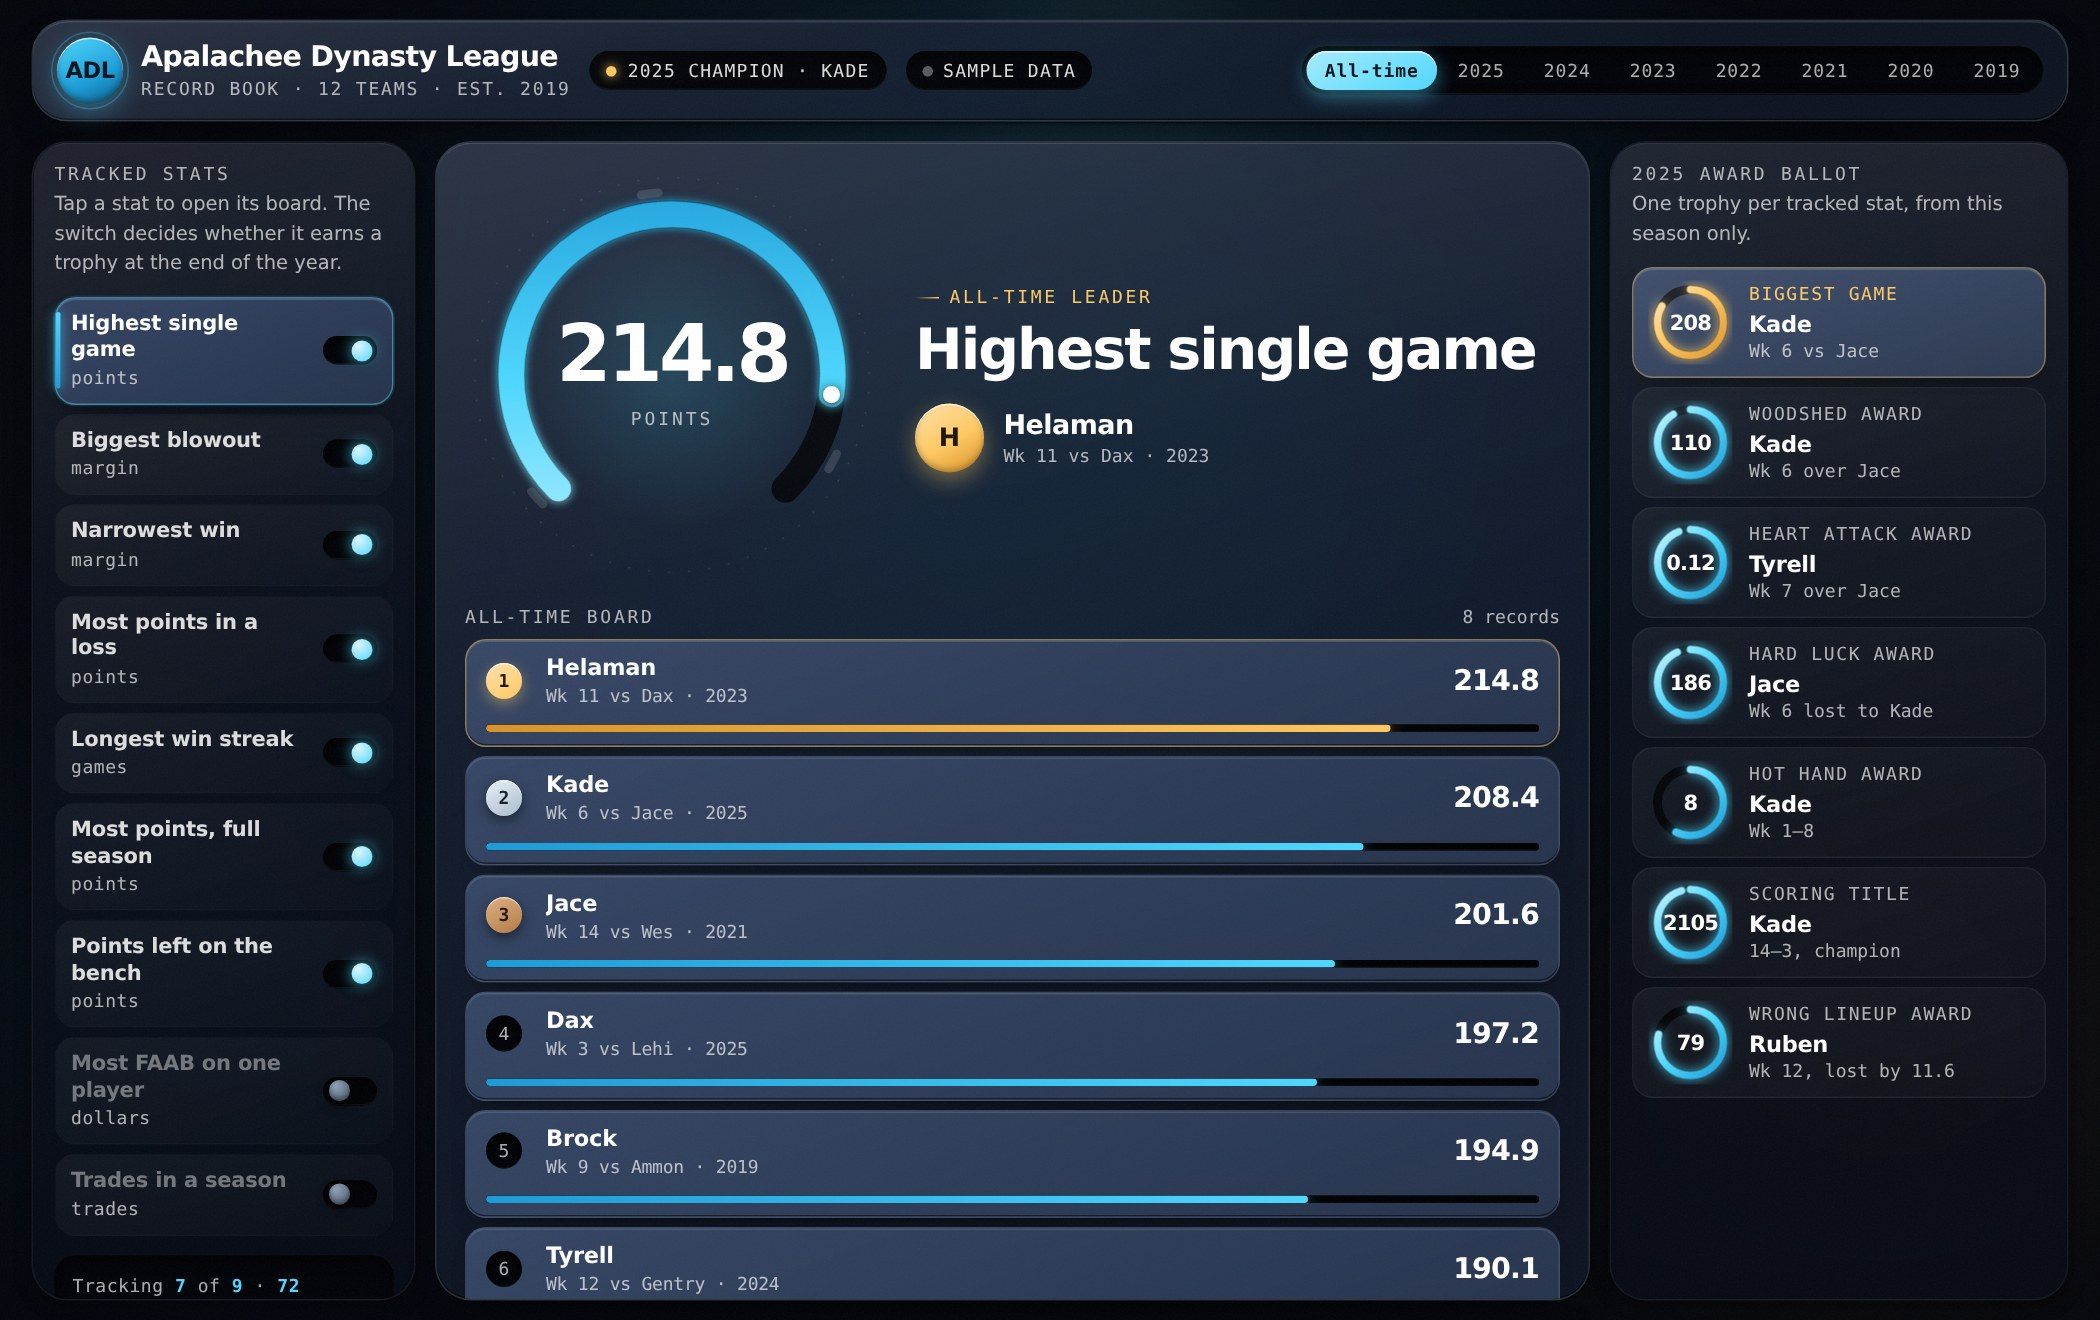
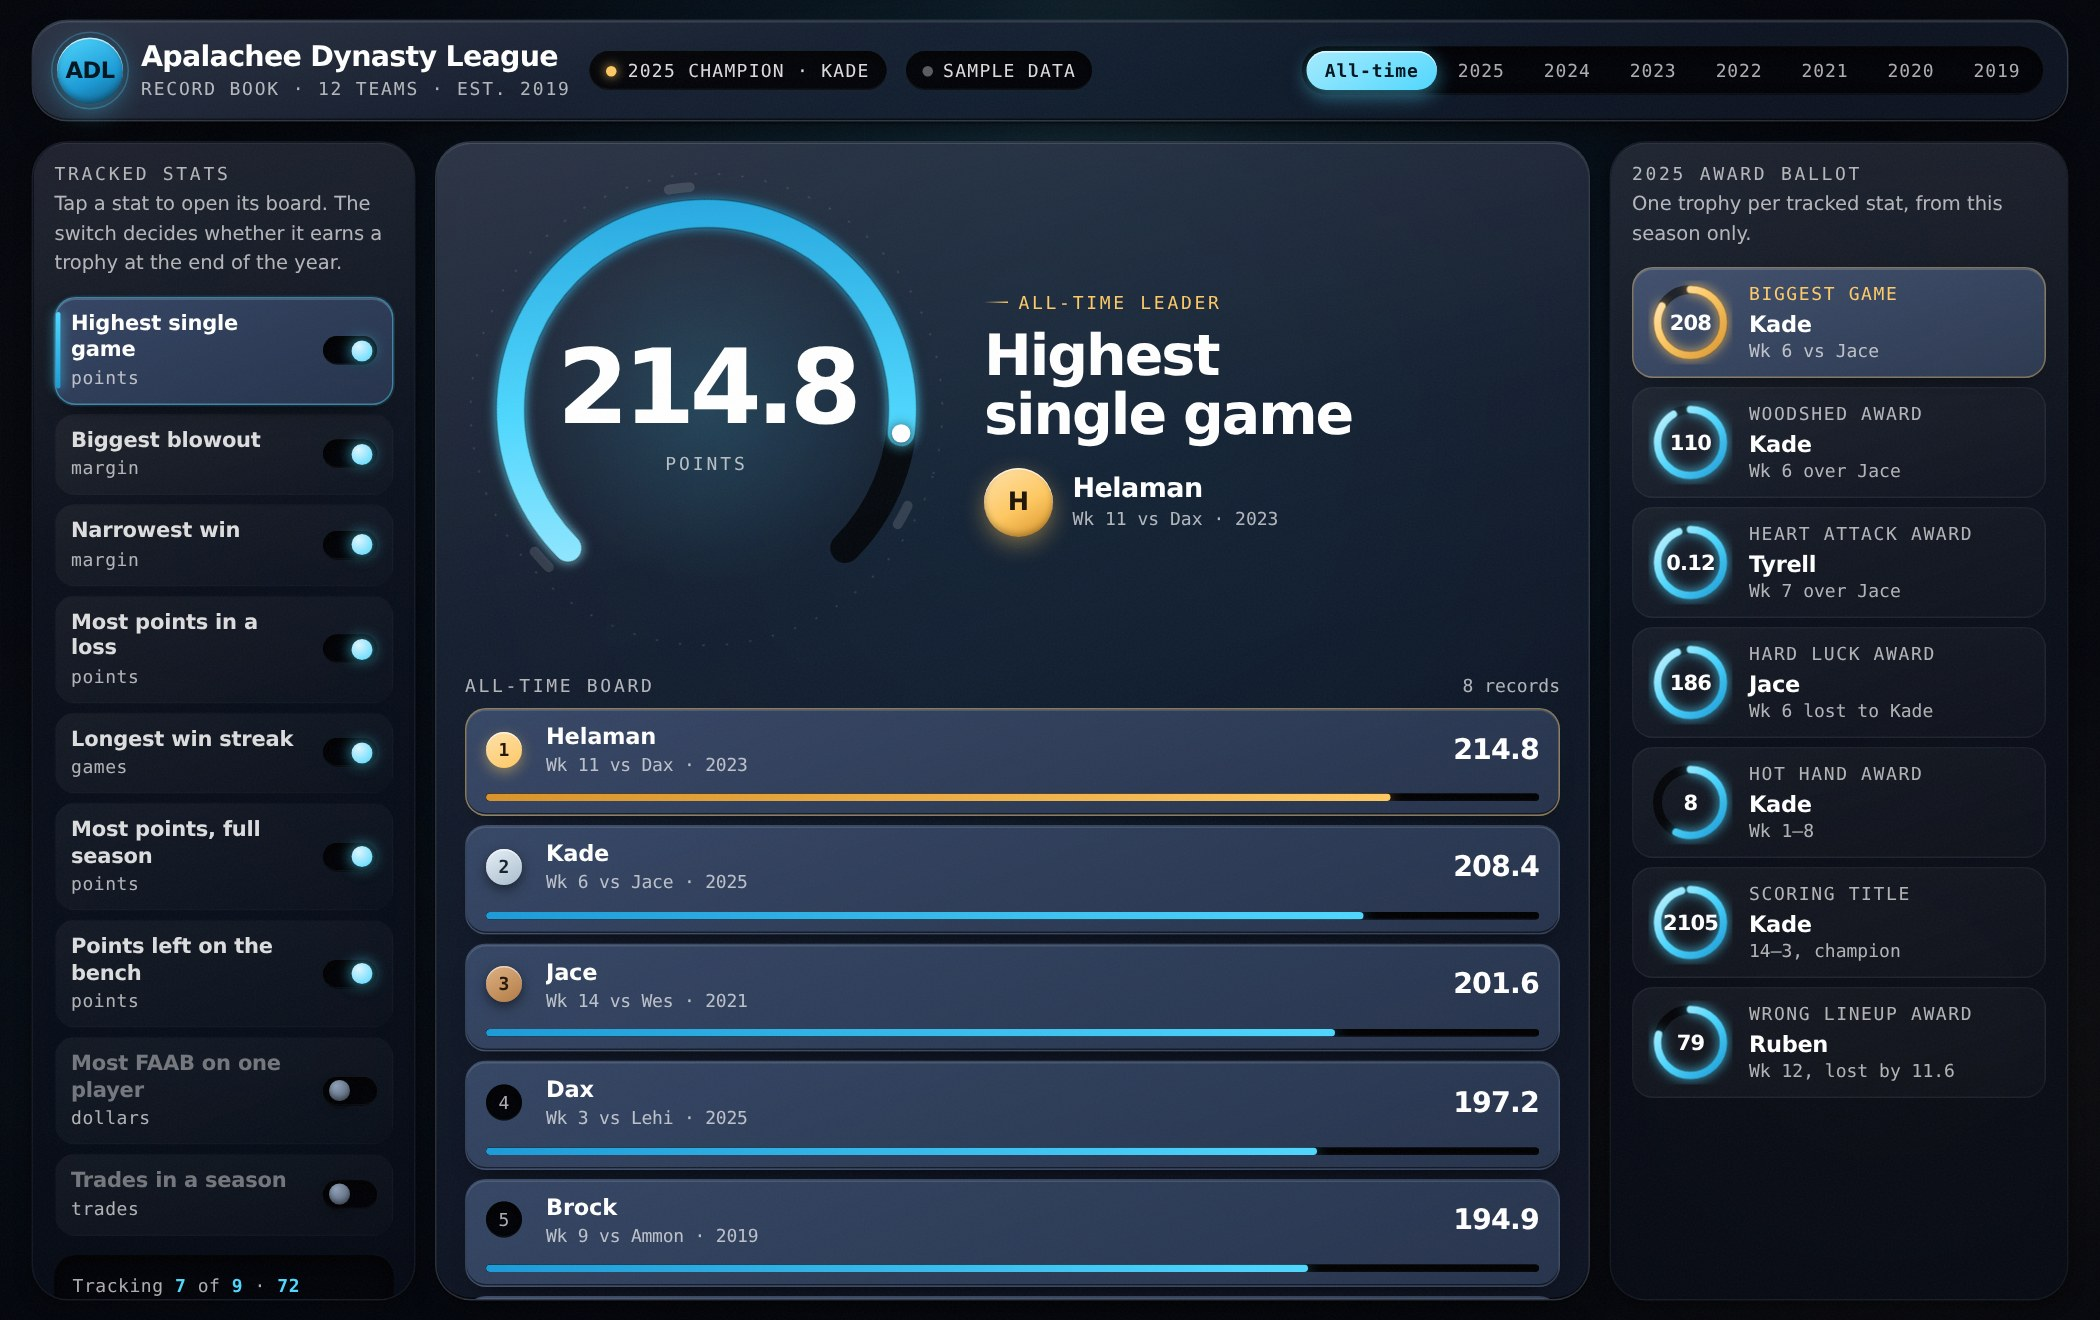
Enlarge the anchor gauge to restore scale contrast
The directive asks for at least 8x between body text and the anchor numeral,
and the gauge was sized so the numeral landed near 4x. The gauge is now 322px
with a thinner ring at a larger radius, which frees the interior: the numeral
runs 51 to 88px depending on digit count, against 15px body. Clearance from
the ring's inner edge is re-measured and holds at 10 to 17px across the widest
values in the set.

Claude-Session: https://claude.ai/code/session_01TiNMvjTDK6Q7mnYRtzpeH8

Changed region(s): [[0.2167, 0.4659, 0.7429, 0.9939], [0.2167, 0.1242, 0.7429, 0.4348]]

diff --git a/samples/league-record-book-standalone.html b/samples/league-record-book-standalone.html
@@ -163,17 +163,17 @@ button{font:inherit}
 
 /* ══ main ══ */
 .main{padding:17px 19px;display:flex;flex-direction:column;gap:16px}
-.anchor{display:grid;grid-template-columns:minmax(0,276px) minmax(0,1fr);gap:24px;align-items:center}
+.anchor{display:grid;grid-template-columns:minmax(0,322px) minmax(0,1fr);gap:24px;align-items:center}
 @media(max-width:880px){.anchor{grid-template-columns:minmax(0,1fr);gap:10px}}
-.gwrap{position:relative;width:100%;max-width:276px;margin-inline:auto;aspect-ratio:1}
+.gwrap{position:relative;width:100%;max-width:322px;margin-inline:auto;aspect-ratio:1}
 .gwrap::before{content:"";position:absolute;inset:11%;border-radius:50%;
   background:radial-gradient(circle,rgba(79,216,255,.16),transparent 66%)}
 .gwrap svg{position:relative;width:100%;height:auto;display:block;overflow:visible}
 .spin{transform-origin:170px 170px;animation:sp 56s linear infinite}
 @keyframes sp{to{transform:rotate(360deg)}}
-.gcenter{position:absolute;inset:20%;display:grid;place-content:center;text-align:center;pointer-events:none}
-.gcenter b{display:block;font-family:var(--disp);font-weight:900;line-height:.88;
-  letter-spacing:-.05em;font-variant-numeric:tabular-nums;color:#fff;font-size:62px}
+.gcenter{position:absolute;inset:17%;display:grid;place-content:center;text-align:center;pointer-events:none}
+.gcenter b{display:block;font-family:var(--disp);font-weight:900;line-height:.86;
+  letter-spacing:-.055em;font-variant-numeric:tabular-nums;color:#fff;font-size:96px}
 .gcenter em{display:block;font-family:var(--mono);font-style:normal;font-size:12px;letter-spacing:.16em;
   text-transform:uppercase;color:var(--ink-3);margin-top:12px}
 .akicker{display:inline-flex;align-items:center;gap:7px;font-family:var(--mono);font-size:12px;
@@ -281,7 +281,7 @@ dialog::backdrop{background:rgba(2,4,10,.78)}
     background:linear-gradient(0deg,rgba(10,14,24,.98),rgba(10,14,24,.84))}
   .rail .closebar button{width:100%}
   .main{padding:15px}
-  .gwrap{max-width:226px}
+  .gwrap{max-width:252px}
 }
 @media (prefers-reduced-motion:reduce){.panel,.a1,.a2,.spin,.row,.stat,.award{animation:none!important;transition:none!important}}
 </style>
@@ -335,17 +335,17 @@ dialog::backdrop{background:rgba(2,4,10,.78)}
               <feMerge><feMergeNode in="b"/><feMergeNode in="SourceGraphic"/></feMerge>
             </filter>
           </defs>
-          <circle class="spin" cx="170" cy="170" r="162" fill="none" stroke="rgba(255,255,255,.16)"
+          <circle class="spin" cx="170" cy="170" r="166" fill="none" stroke="rgba(255,255,255,.16)"
                   stroke-width="1" stroke-dasharray="1.5 15"/>
-          <circle cx="170" cy="170" r="150" fill="none" stroke="rgba(255,255,255,.13)"
+          <circle cx="170" cy="170" r="157" fill="none" stroke="rgba(255,255,255,.13)"
                   stroke-width="7" stroke-dasharray="1.5 33.3" transform="rotate(135 170 170)"
                   stroke-linecap="round" pathLength="100"/>
-          <circle cx="170" cy="170" r="132" fill="none" stroke="rgba(0,0,0,.72)" stroke-width="23"
-                  stroke-linecap="round" stroke-dasharray="622 830" transform="rotate(135 170 170)"/>
-          <circle id="garc" cx="170" cy="170" r="132" fill="none" stroke="url(#gg)" stroke-width="21"
-                  stroke-linecap="round" stroke-dasharray="0 830" transform="rotate(135 170 170)"
+          <circle cx="170" cy="170" r="138" fill="none" stroke="rgba(0,0,0,.72)" stroke-width="21"
+                  stroke-linecap="round" stroke-dasharray="650 867" transform="rotate(135 170 170)"/>
+          <circle id="garc" cx="170" cy="170" r="138" fill="none" stroke="url(#gg)" stroke-width="19"
+                  stroke-linecap="round" stroke-dasharray="0 867" transform="rotate(135 170 170)"
                   filter="url(#gglow)" style="transition:stroke-dasharray .55s cubic-bezier(.2,.8,.2,1)"/>
-          <circle id="gcap" cx="170" cy="38" r="7" fill="#fff"
+          <circle id="gcap" cx="170" cy="32" r="6.5" fill="#fff"
                   style="filter:drop-shadow(0 2px 5px rgba(0,0,0,.9));transition:transform .55s cubic-bezier(.2,.8,.2,1)"/>
         </svg>
         <div class="gcenter"><b id="gval">—</b><em id="gunit">points</em></div>
@@ -462,14 +462,14 @@ function fitNumber(el){
   const box=el.parentElement.getBoundingClientRect().width;
   if(!box)return;
   const avail=box*0.94;
-  el.style.fontSize='64px';
+  el.style.fontSize='96px';
   const w=el.scrollWidth;
-  if(w>avail)el.style.fontSize=Math.max(26,Math.floor(64*avail/w))+'px';
+  if(w>avail)el.style.fontSize=Math.max(30,Math.floor(96*avail/w))+'px';
 }
 function setCap(p){
   const a=(135+270*p)*Math.PI/180;
-  const x=170+132*Math.cos(a), y=170+132*Math.sin(a);
-  $('gcap').setAttribute('transform',`translate(${(x-170).toFixed(1)} ${(y-38).toFixed(1)})`);
+  const x=170+138*Math.cos(a), y=170+138*Math.sin(a);
+  $('gcap').setAttribute('transform',`translate(${(x-170).toFixed(1)} ${(y-32).toFixed(1)})`);
 }
 function renderBoard(){
   const s=STATS.find(x=>x.id===sel), list=entries(s,season);
@@ -481,14 +481,14 @@ function renderBoard(){
   if(list.length){
     const top=list[0],txt=fmt(s,top[1]),p=pct(s,top[1]);
     const g=$('gval');g.textContent=txt;fitNumber(g);
-    $('garc').setAttribute('stroke-dasharray',(622*p).toFixed(0)+' 830');
+    $('garc').setAttribute('stroke-dasharray',(650*p).toFixed(0)+' 867');
     $('gcap').style.opacity='1';setCap(p);
     $('avi').textContent=top[0][0];
     $('hname').textContent=top[0];
     $('hctx').textContent=top[2]+' · '+top[3];
   }else{
     $('gval').textContent='—';fitNumber($('gval'));
-    $('garc').setAttribute('stroke-dasharray','0 830');$('gcap').style.opacity='0';
+    $('garc').setAttribute('stroke-dasharray','0 867');$('gcap').style.opacity='0';
     $('avi').textContent='–';$('hname').textContent='No record yet';$('hctx').textContent=season+' season';
   }
   $('rows').innerHTML=list.length?list.map((r,i)=>rowHTML(s,r,i)).join('')

diff --git a/samples/league-record-book.html b/samples/league-record-book.html
@@ -157,17 +157,17 @@ button{font:inherit}
 
 /* ══ main ══ */
 .main{padding:17px 19px;display:flex;flex-direction:column;gap:16px}
-.anchor{display:grid;grid-template-columns:minmax(0,276px) minmax(0,1fr);gap:24px;align-items:center}
+.anchor{display:grid;grid-template-columns:minmax(0,322px) minmax(0,1fr);gap:24px;align-items:center}
 @media(max-width:880px){.anchor{grid-template-columns:minmax(0,1fr);gap:10px}}
-.gwrap{position:relative;width:100%;max-width:276px;margin-inline:auto;aspect-ratio:1}
+.gwrap{position:relative;width:100%;max-width:322px;margin-inline:auto;aspect-ratio:1}
 .gwrap::before{content:"";position:absolute;inset:11%;border-radius:50%;
   background:radial-gradient(circle,rgba(79,216,255,.16),transparent 66%)}
 .gwrap svg{position:relative;width:100%;height:auto;display:block;overflow:visible}
 .spin{transform-origin:170px 170px;animation:sp 56s linear infinite}
 @keyframes sp{to{transform:rotate(360deg)}}
-.gcenter{position:absolute;inset:20%;display:grid;place-content:center;text-align:center;pointer-events:none}
-.gcenter b{display:block;font-family:var(--disp);font-weight:900;line-height:.88;
-  letter-spacing:-.05em;font-variant-numeric:tabular-nums;color:#fff;font-size:62px}
+.gcenter{position:absolute;inset:17%;display:grid;place-content:center;text-align:center;pointer-events:none}
+.gcenter b{display:block;font-family:var(--disp);font-weight:900;line-height:.86;
+  letter-spacing:-.055em;font-variant-numeric:tabular-nums;color:#fff;font-size:96px}
 .gcenter em{display:block;font-family:var(--mono);font-style:normal;font-size:12px;letter-spacing:.16em;
   text-transform:uppercase;color:var(--ink-3);margin-top:12px}
 .akicker{display:inline-flex;align-items:center;gap:7px;font-family:var(--mono);font-size:12px;
@@ -275,7 +275,7 @@ dialog::backdrop{background:rgba(2,4,10,.78)}
     background:linear-gradient(0deg,rgba(10,14,24,.98),rgba(10,14,24,.84))}
   .rail .closebar button{width:100%}
   .main{padding:15px}
-  .gwrap{max-width:226px}
+  .gwrap{max-width:252px}
 }
 @media (prefers-reduced-motion:reduce){.panel,.a1,.a2,.spin,.row,.stat,.award{animation:none!important;transition:none!important}}
 </style>
@@ -326,17 +326,17 @@ dialog::backdrop{background:rgba(2,4,10,.78)}
               <feMerge><feMergeNode in="b"/><feMergeNode in="SourceGraphic"/></feMerge>
             </filter>
           </defs>
-          <circle class="spin" cx="170" cy="170" r="162" fill="none" stroke="rgba(255,255,255,.16)"
+          <circle class="spin" cx="170" cy="170" r="166" fill="none" stroke="rgba(255,255,255,.16)"
                   stroke-width="1" stroke-dasharray="1.5 15"/>
-          <circle cx="170" cy="170" r="150" fill="none" stroke="rgba(255,255,255,.13)"
+          <circle cx="170" cy="170" r="157" fill="none" stroke="rgba(255,255,255,.13)"
                   stroke-width="7" stroke-dasharray="1.5 33.3" transform="rotate(135 170 170)"
                   stroke-linecap="round" pathLength="100"/>
-          <circle cx="170" cy="170" r="132" fill="none" stroke="rgba(0,0,0,.72)" stroke-width="23"
-                  stroke-linecap="round" stroke-dasharray="622 830" transform="rotate(135 170 170)"/>
-          <circle id="garc" cx="170" cy="170" r="132" fill="none" stroke="url(#gg)" stroke-width="21"
-                  stroke-linecap="round" stroke-dasharray="0 830" transform="rotate(135 170 170)"
+          <circle cx="170" cy="170" r="138" fill="none" stroke="rgba(0,0,0,.72)" stroke-width="21"
+                  stroke-linecap="round" stroke-dasharray="650 867" transform="rotate(135 170 170)"/>
+          <circle id="garc" cx="170" cy="170" r="138" fill="none" stroke="url(#gg)" stroke-width="19"
+                  stroke-linecap="round" stroke-dasharray="0 867" transform="rotate(135 170 170)"
                   filter="url(#gglow)" style="transition:stroke-dasharray .55s cubic-bezier(.2,.8,.2,1)"/>
-          <circle id="gcap" cx="170" cy="38" r="7" fill="#fff"
+          <circle id="gcap" cx="170" cy="32" r="6.5" fill="#fff"
                   style="filter:drop-shadow(0 2px 5px rgba(0,0,0,.9));transition:transform .55s cubic-bezier(.2,.8,.2,1)"/>
         </svg>
         <div class="gcenter"><b id="gval">—</b><em id="gunit">points</em></div>
@@ -453,14 +453,14 @@ function fitNumber(el){
   const box=el.parentElement.getBoundingClientRect().width;
   if(!box)return;
   const avail=box*0.94;
-  el.style.fontSize='64px';
+  el.style.fontSize='96px';
   const w=el.scrollWidth;
-  if(w>avail)el.style.fontSize=Math.max(26,Math.floor(64*avail/w))+'px';
+  if(w>avail)el.style.fontSize=Math.max(30,Math.floor(96*avail/w))+'px';
 }
 function setCap(p){
   const a=(135+270*p)*Math.PI/180;
-  const x=170+132*Math.cos(a), y=170+132*Math.sin(a);
-  $('gcap').setAttribute('transform',`translate(${(x-170).toFixed(1)} ${(y-38).toFixed(1)})`);
+  const x=170+138*Math.cos(a), y=170+138*Math.sin(a);
+  $('gcap').setAttribute('transform',`translate(${(x-170).toFixed(1)} ${(y-32).toFixed(1)})`);
 }
 function renderBoard(){
   const s=STATS.find(x=>x.id===sel), list=entries(s,season);
@@ -472,14 +472,14 @@ function renderBoard(){
   if(list.length){
     const top=list[0],txt=fmt(s,top[1]),p=pct(s,top[1]);
     const g=$('gval');g.textContent=txt;fitNumber(g);
-    $('garc').setAttribute('stroke-dasharray',(622*p).toFixed(0)+' 830');
+    $('garc').setAttribute('stroke-dasharray',(650*p).toFixed(0)+' 867');
     $('gcap').style.opacity='1';setCap(p);
     $('avi').textContent=top[0][0];
     $('hname').textContent=top[0];
     $('hctx').textContent=top[2]+' · '+top[3];
   }else{
     $('gval').textContent='—';fitNumber($('gval'));
-    $('garc').setAttribute('stroke-dasharray','0 830');$('gcap').style.opacity='0';
+    $('garc').setAttribute('stroke-dasharray','0 867');$('gcap').style.opacity='0';
     $('avi').textContent='–';$('hname').textContent='No record yet';$('hctx').textContent=season+' season';
   }
   $('rows').innerHTML=list.length?list.map((r,i)=>rowHTML(s,r,i)).join('')
